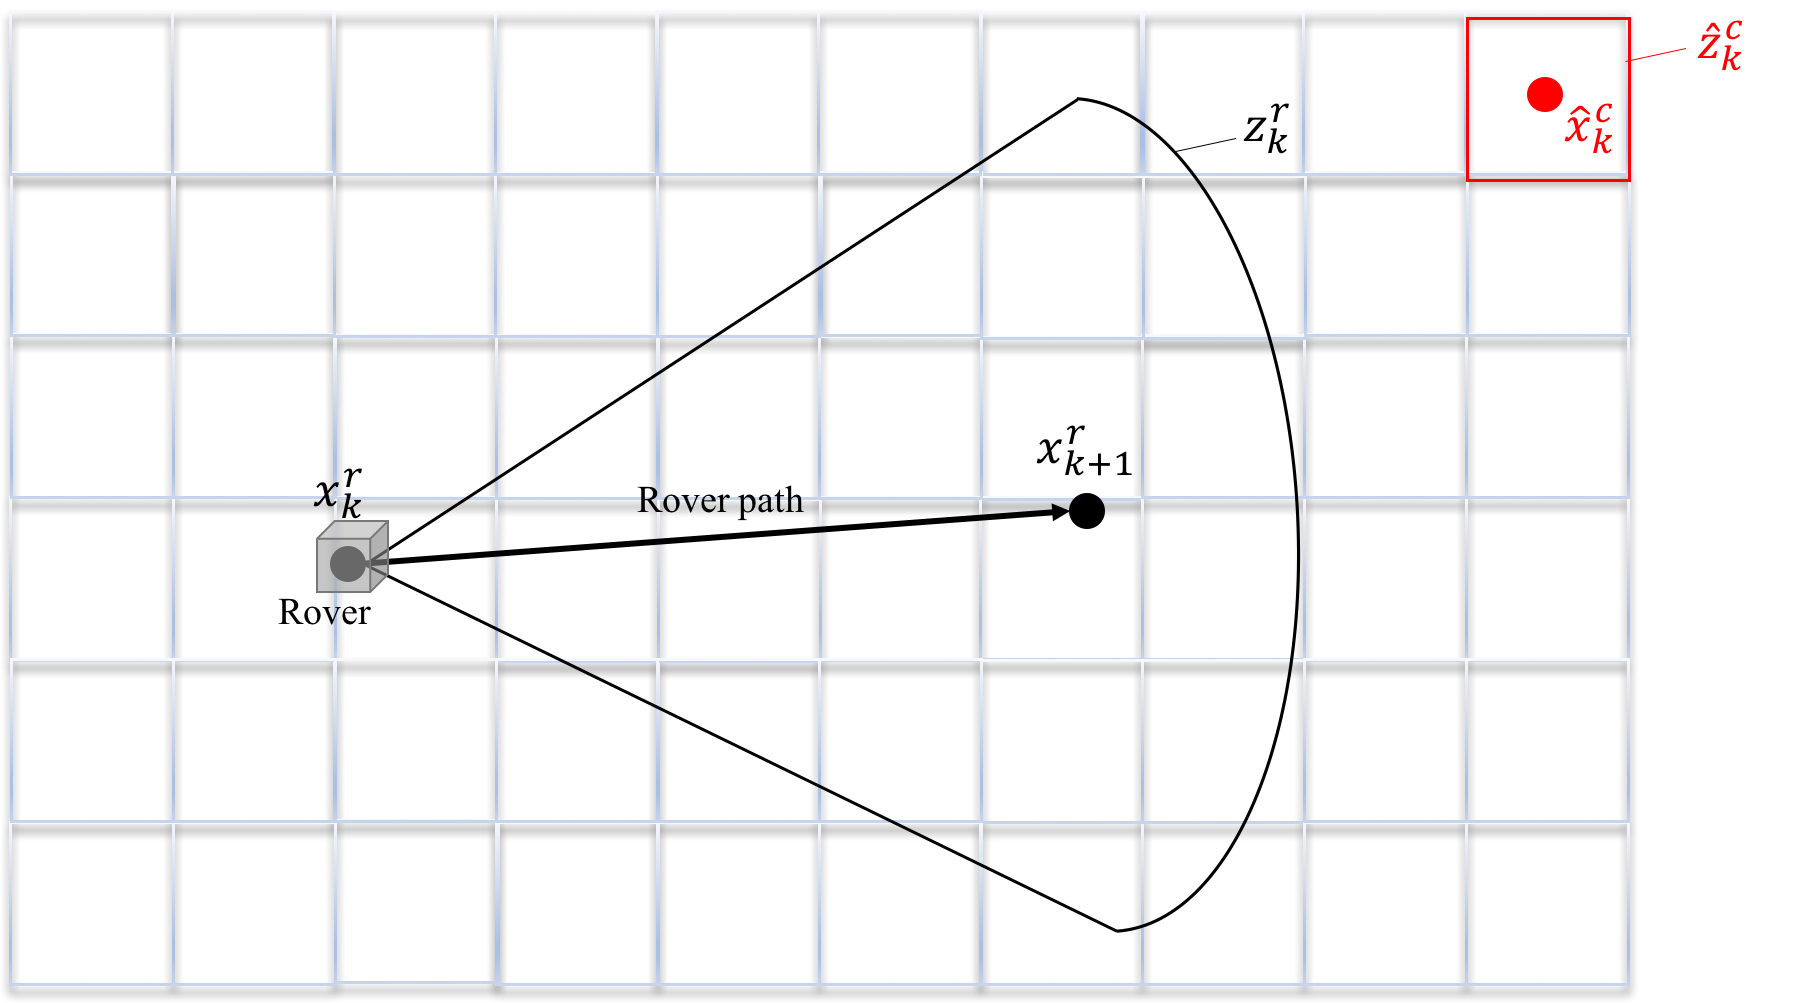
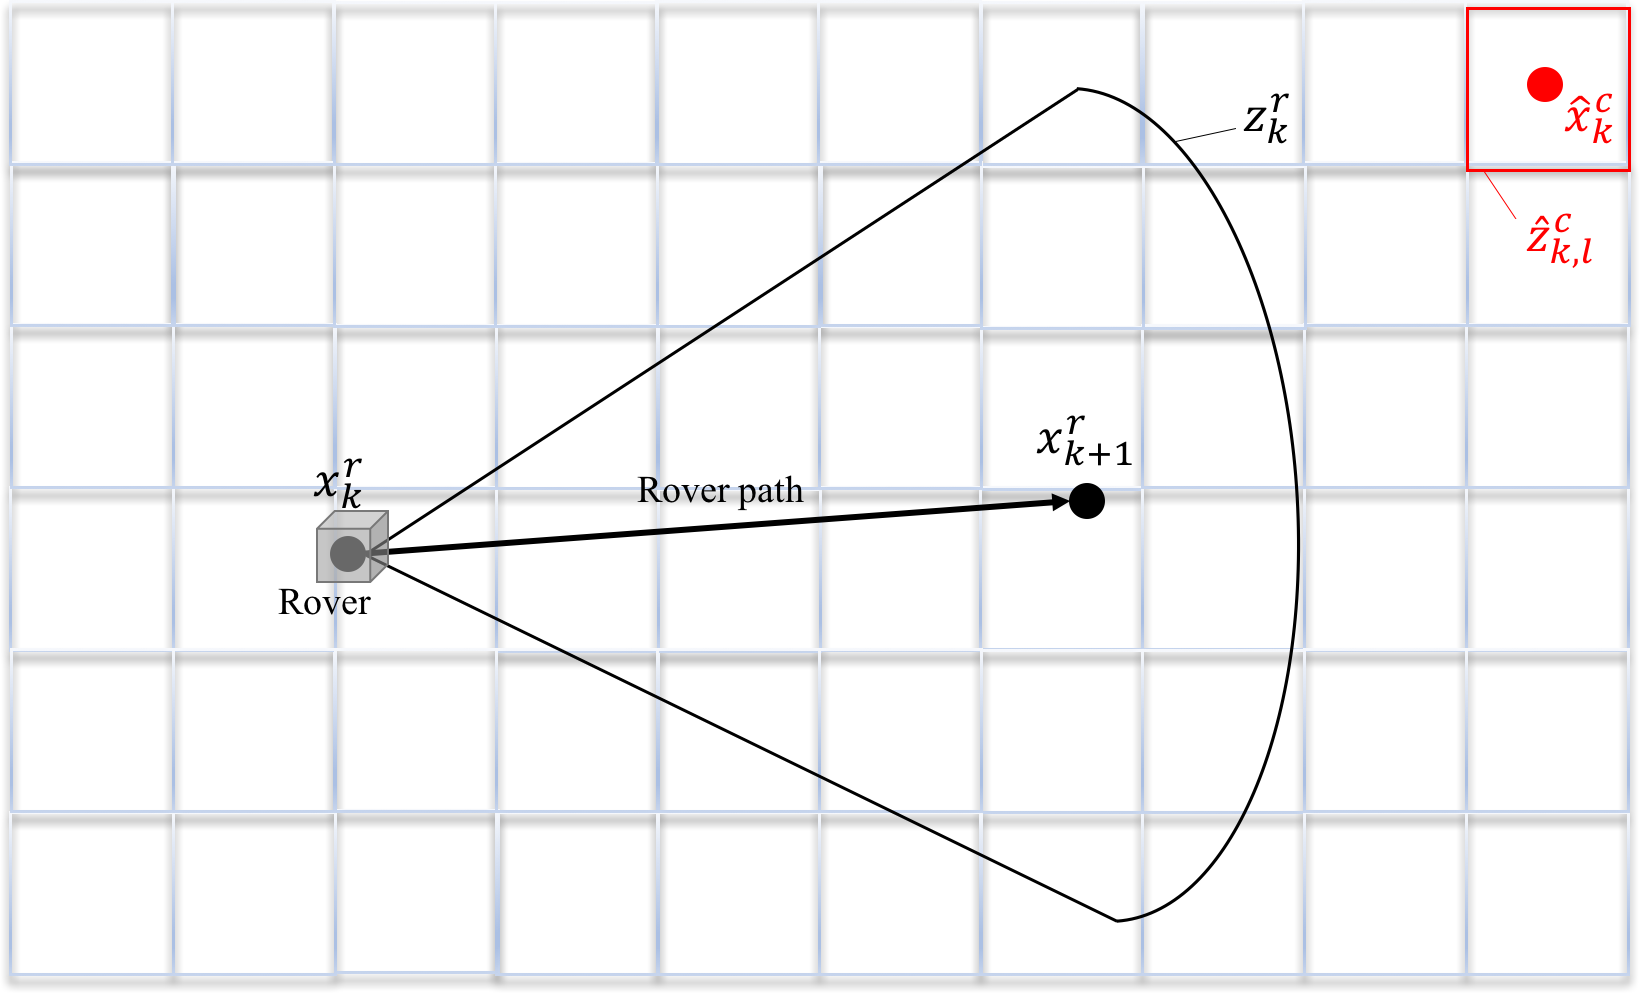
Updates from ShareLaTeX

Changed region(s): [[0.0, 0.0, 0.9879, 0.999]]

diff --git a/BeliefSpaceTemporalLogic/8_WhereToMap.tex b/BeliefSpaceTemporalLogic/8_WhereToMap.tex
@@ -56,7 +56,7 @@ This paper answers this where to map by a helicopter while minimizing uncertaint
 This section gives a formal definition of the problem we are going to address. 
 
 \pr{Problem}
-This paper automates the process of where to map by a copter in order to minimize the covariance or the localization belief of a rover while considering the copter’s body path. Figure~\ref{fig:8_1} shows a belief propagation of a rover and Fig.~\ref{fig:8_2} illastrates an image of where to map by a copter.
+This paper automates the process of where to map by a copter in order to minimize the covariance or the localization belief of a rover while considering the copter’s body path. Figure~\ref{fig:8_1} shows a belief propagation of a rover and Fig.~\ref{fig:8_2} illustrates an image of where to map by a copter.
 
 \pr{Rover and Helicopter Description}
 The rover and helicopter configurations are denoted by $x^r$ and $x^c$, respectively. The extended state $x=(x^r,~x^c)$ includes both.
@@ -135,21 +135,21 @@ Belief update of a rover localization is given by
 
 We find a helicopter position that minimizes the following cost function:
 \begin{align}
-    &x^{c*}=\arg\min_{x^c \in X^c} \sum^T_{k=1} P^{r+}_k\\
+    &x^{c*}=\arg\min_{x^c \in X^c} \sum^T_{k=1} P^{r+}_k\label{eq:c1}\\
      &{\rm s.t.} \hspace{5mm} D_{\min}(x^c_{alt}) \leq D^c_k \leq D_{\max}(x^c_{alt})\label{eq:st1}\\
-    &\hspace{10mm} L^c \leq L^c_{\max}(T^c_{search})\label{eq:st2}
+    &\hspace{10mm} \sum^{Tc}_{l=1} L^c_{k,l} \leq L^c_{\max}(t^c_{search})\label{eq:st2}
 \end{align}
 where
 \begin{align}
-P^{r+}_k&={\rm Cov}(x^{r+}_k) = {\rm Cov}(x^{r}_k | z_{0:k})\\
-&={\rm VO}(z_1,~z_2,\cdots,~z_k)\simeq {\rm VO}(z_k).
+P^{r+}_k&={\rm Cov}(x^{r+}_k) = {\rm Cov}(x^{r}_k | z_{0:k})\label{eq:p1}\\
+&={\rm VO}(z_1,~z_2,\cdots,~z_k)\simeq {\rm VO}(z_k).\label{eq:p2}
 \end{align}
 Note that Cov($\cdot$) and VO($\cdot$) denote the covariance and the visual odometry, respectively.
 
 \subsection{Constraints}
 
 \pr{Resolution constraint}
-A resolution of an image from a copter dependes on a camera performance and a altitude of a coptrer $x^c_{alt}$.
+A resolution of an image from a copter depends on a camera performance and a altitude of a copter $x^c_{alt}$.
 %\begin{align}
 %    \zeta=k x^c_{alt}
 %\end{align}
@@ -164,12 +164,12 @@ A field-of-view (FOV) $D^c$ is determined by an altitude of a copter.
 \pr{Flight time constraint}
 Equation~\eqref{eq:st2} represents the constraint that the searching range $L^c$ depends on the flight time $T^c_{search}$ coming from the battery limitation of the copter.
 \begin{align}
-    L^c \leq L^c_{\max}(T^c_{search})
+    \sum^{Tc}_{l=1} L^c_{k,l} \leq L^c_{\max}(t^c_{search})
 \end{align}
 
 \pr{Flight interval constraint}
 ``{\it When to map}'' is also an interesting problem. This constraint determines $l$ in the time step $k$.
-
+\textcolor[gray]{0.5}{
 \section{Planning: copter body path planning}
 \subsection{Planning Objective}
 Using the cost $C(b_k, u_k)$,
@@ -178,67 +178,80 @@ Using the cost $C(b_k, u_k)$,
     &{\rm s.t.} \hspace{5mm} ||u^c_{0:k}||< \delta\label{eq:st10}\\
     &\hspace{10mm} x^r_T \in goal^r\label{eq:st20}
 \end{align}
-
+}
 %Observation $z_k$ is given by
 %\begin{align}
 %z_k=x^r_k-L^m_k(x^c_k)
 %\end{align}
-
+\textcolor[gray]{0.5}{
 \subsection{Constraints}
-
 \pr{Input constraint}
 Equation~\eqref{eq:st10} represents the constraint that the limitation of the copter control input as follow:
 \begin{align}
     ||u^c_{0:k}||< \delta
 \end{align}
-
 \pr{Position constraint}
 Equation~\eqref{eq:st20} represents the constraint that the rover need to reach the goal at the final step $T$.
 \begin{align}
     x^r_T \in goal^r
 \end{align}
-
+}
 \section{Search Method: copter where to map}
-%RRT
-\pr{Grid the Search Space}
-First of all, we grid the searching space to determine where to map and the copter's path as in Fig.~\ref{fig:8_3}.\\
-\begin{figure}[h]
+This section provides a process of a searching method for solving the cost function in the former section.
+\subsection{Grid the Search Space}
+First of all, we grid the searching space to determine where to map and the copter's path as in Fig.~\ref{fig:8_3}. These grid spaces are determined by a FOV of a copter.
+\begin{figure}[b]
 		\centering
 		\includegraphics[width=1.0\columnwidth]{figs/8_3.png}
 		\caption{Searching space grid.}
 		\label{fig:8_3}
 \end{figure}
-
-
 %\subsection{Planning Objective~2: Coverage (Exploration)}
+\subsection{Perception Performance Prediction}
+Our method investigates unseen or uncertainty areas by a copter. As a exploration, we search the occluded area by using viewshed analysis with $(x^r_k,~m_k)$. As a simple example of viewshed analysis, the coverage can be obtained as shown in Fig.~\ref{fig:vs}.
 
-Our method investigates unseen or uncertainty areas by helicopter.
-\subsection*{Coverage (Exploration)}
-\begin{itemize}
-    \item Occluded area (using Viewshed analysis)
-    \item Beyond rover’s perception horizon
-\end{itemize}
+Here, we consider the performance of the VO system as the evaluating measurement of the rover localization belief $b^r_{k+1}$. We know how to predict the most likely future measurement $\{ \grave{z}^r_t \}$ for all $t>k$ in Ref.~\cite{IEEE:Kyon}. We run a given VO algorithm on these synthetic images
+\begin{align}
+    {\rm VO}: (\grave{z}^r_i,\grave{z}^r_{i+1}) \to (\Delta \grae{x}_{i,i+1},\Omega_{i,i+1}),\quad i=k,\cdots,t
+\end{align}
+where $\Delta \grave{x}_{i,i+1}$ denotes the displacement between two synthetic images $i$ and $i+1$ computed by VO, and $\Omega_{i,i+1}$ is the performance indicator for VO between time-steps $i$ and $i+1$, which includes Cov($x^{r}_{k+1} | z_{0:k+1}$) in Eq.~\eqref{eq:p1}. To evaluate the $k+1$-th Cov($x^{r}_{k+1} | z_{0:k+1}$), ``where to map'' by a copter can be obtained as shown the red areas in Fig.~\ref{fig:8_4}.
 
-Using Viewshed analysis with $(x^r,~m)$, coverage can be obtained as shown in Fig.~\ref{fig:vs}.
+%\subsection*{Coverage (Exploration)}
+%\begin{itemize}
+%    \item Occluded area (using Viewshed analysis)
+ %   \item Beyond rover’s perception horizon
+%\end{itemize}
 \begin{figure}[h]
 		\centering
 		\includegraphics[width=1.0\columnwidth]{figs/vs.png}
 		\caption{Viewshed analysis (example).}
 		\label{fig:vs}
 \end{figure}
+\begin{figure}[h]
+		\centering
+		\includegraphics[width=1.0\columnwidth]{figs/8_4.png}
+		\caption{Creating the path.}
+		\label{fig:8_4}
+\end{figure}
 
+\subsection{Search the optimal path}
+From the obtained the areas to map, next we search the optimal path (shortest path) using a traveling salesman problem (TSP) or a dynamic programming (DP).  
 
-
-\pr{Perception Performance Prediction}
-aaa\\
-RRT?
-
+\textcolor[gray]{0.5}{
 \section{Search Method: copter body path planning}
 RRT?
+}
 
 \section{Simulation Results}
 
 \section{Conclusion}
+
+\begin{thebibliography}{1}
+
+\bibitem{IEEE:Kyon}
+K. Otsu, A. Agha-mohammadi, and M. Paton, ``Where to look? Predictive Perception with Applications to Planetary Exploration,'' in {\it IEEE Robotics and Automation Letters}, vol.xx, no.xx, pp.xx-xx, 201x.
+
+\end{thebibliography}
 
 \end{document}
 
